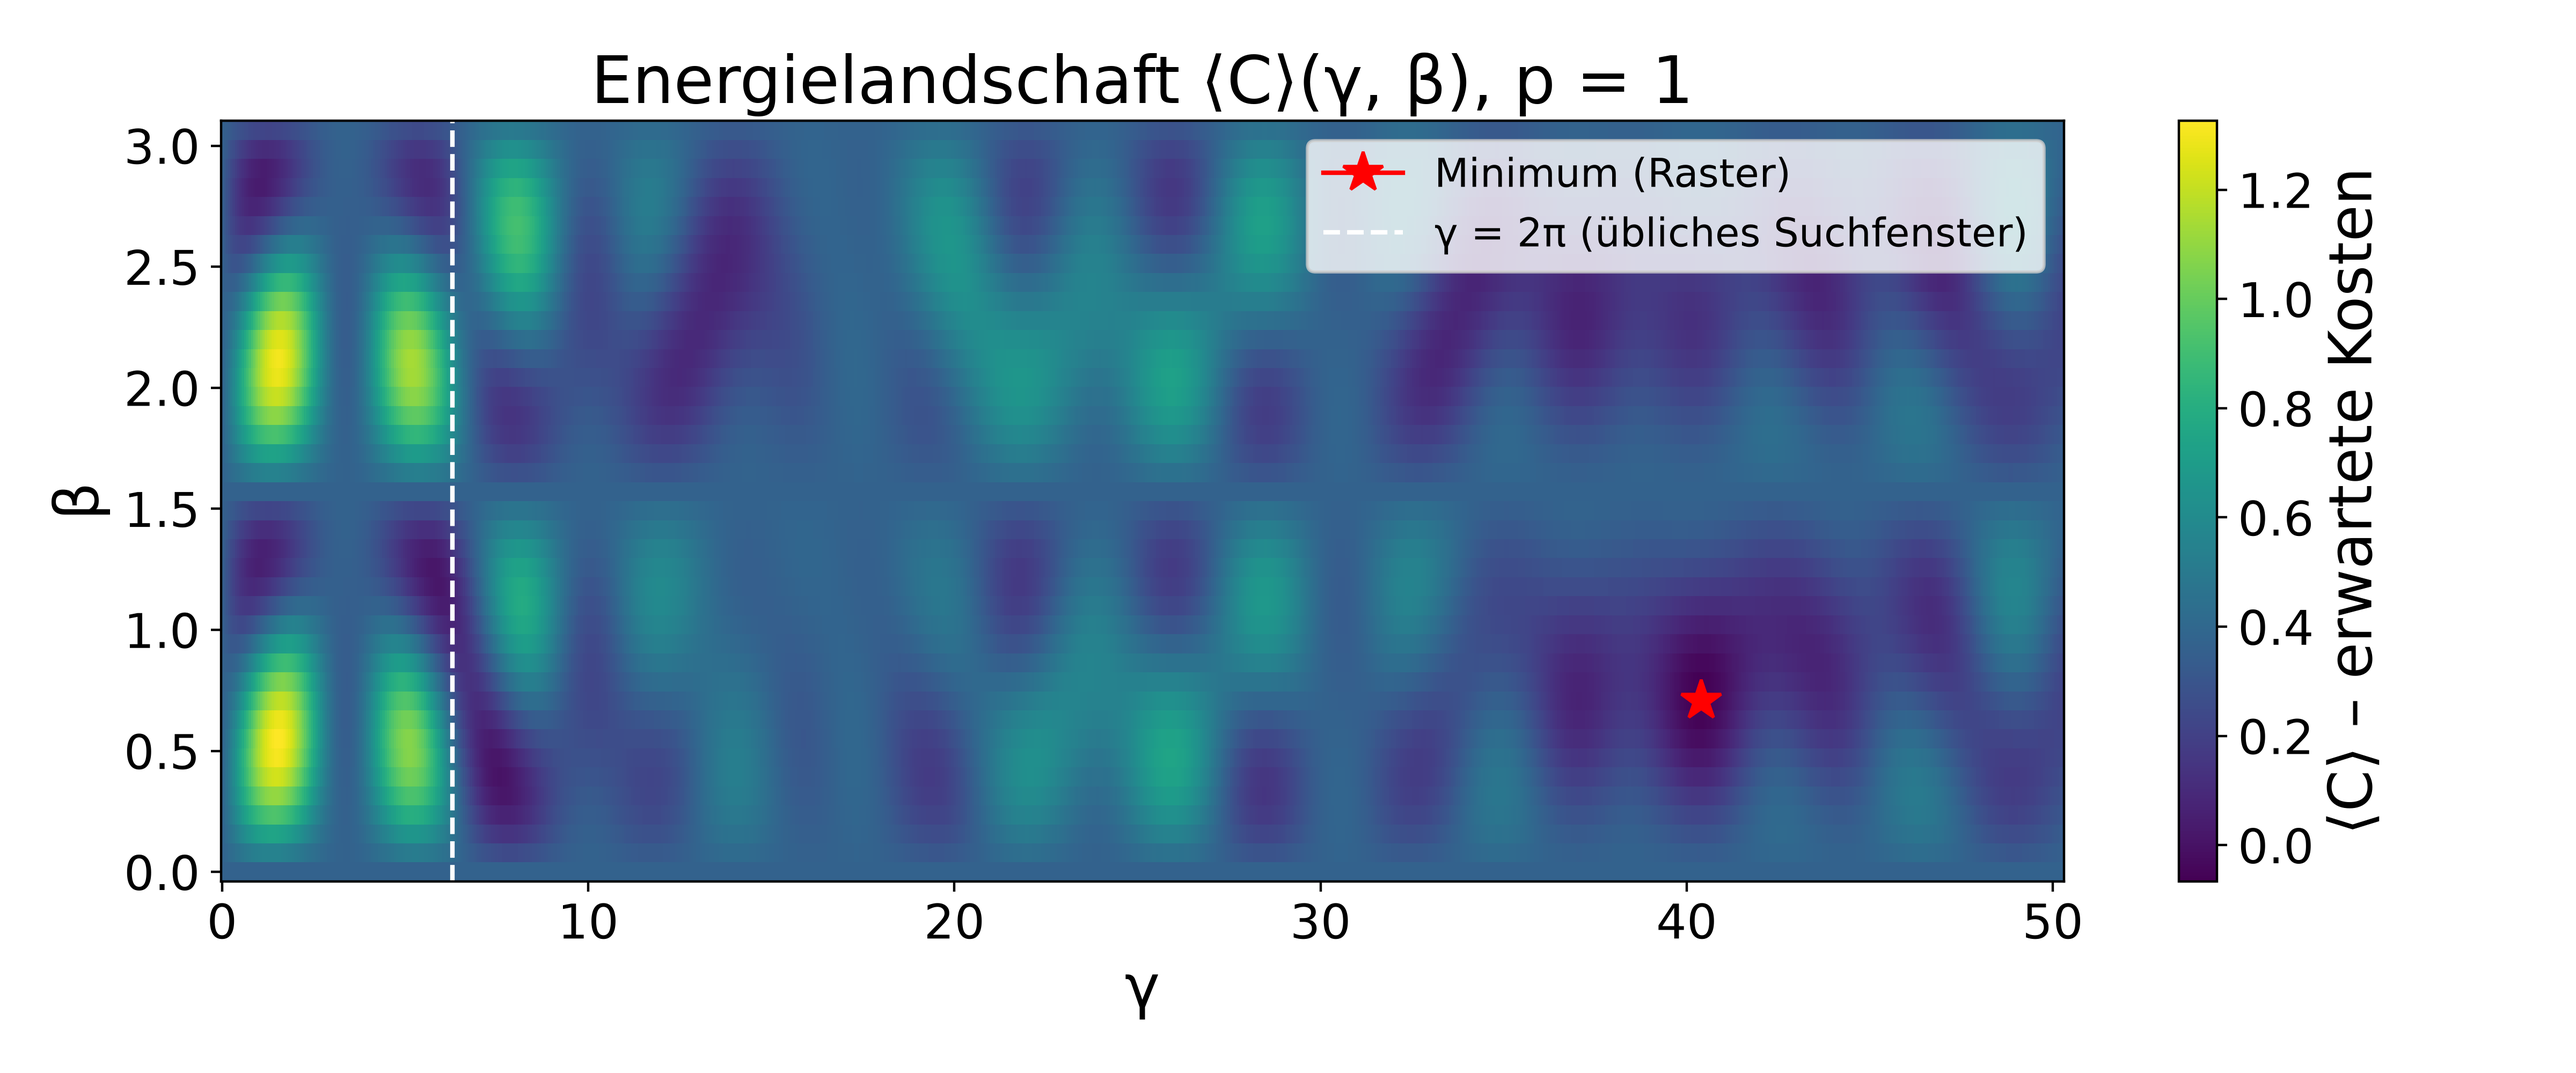
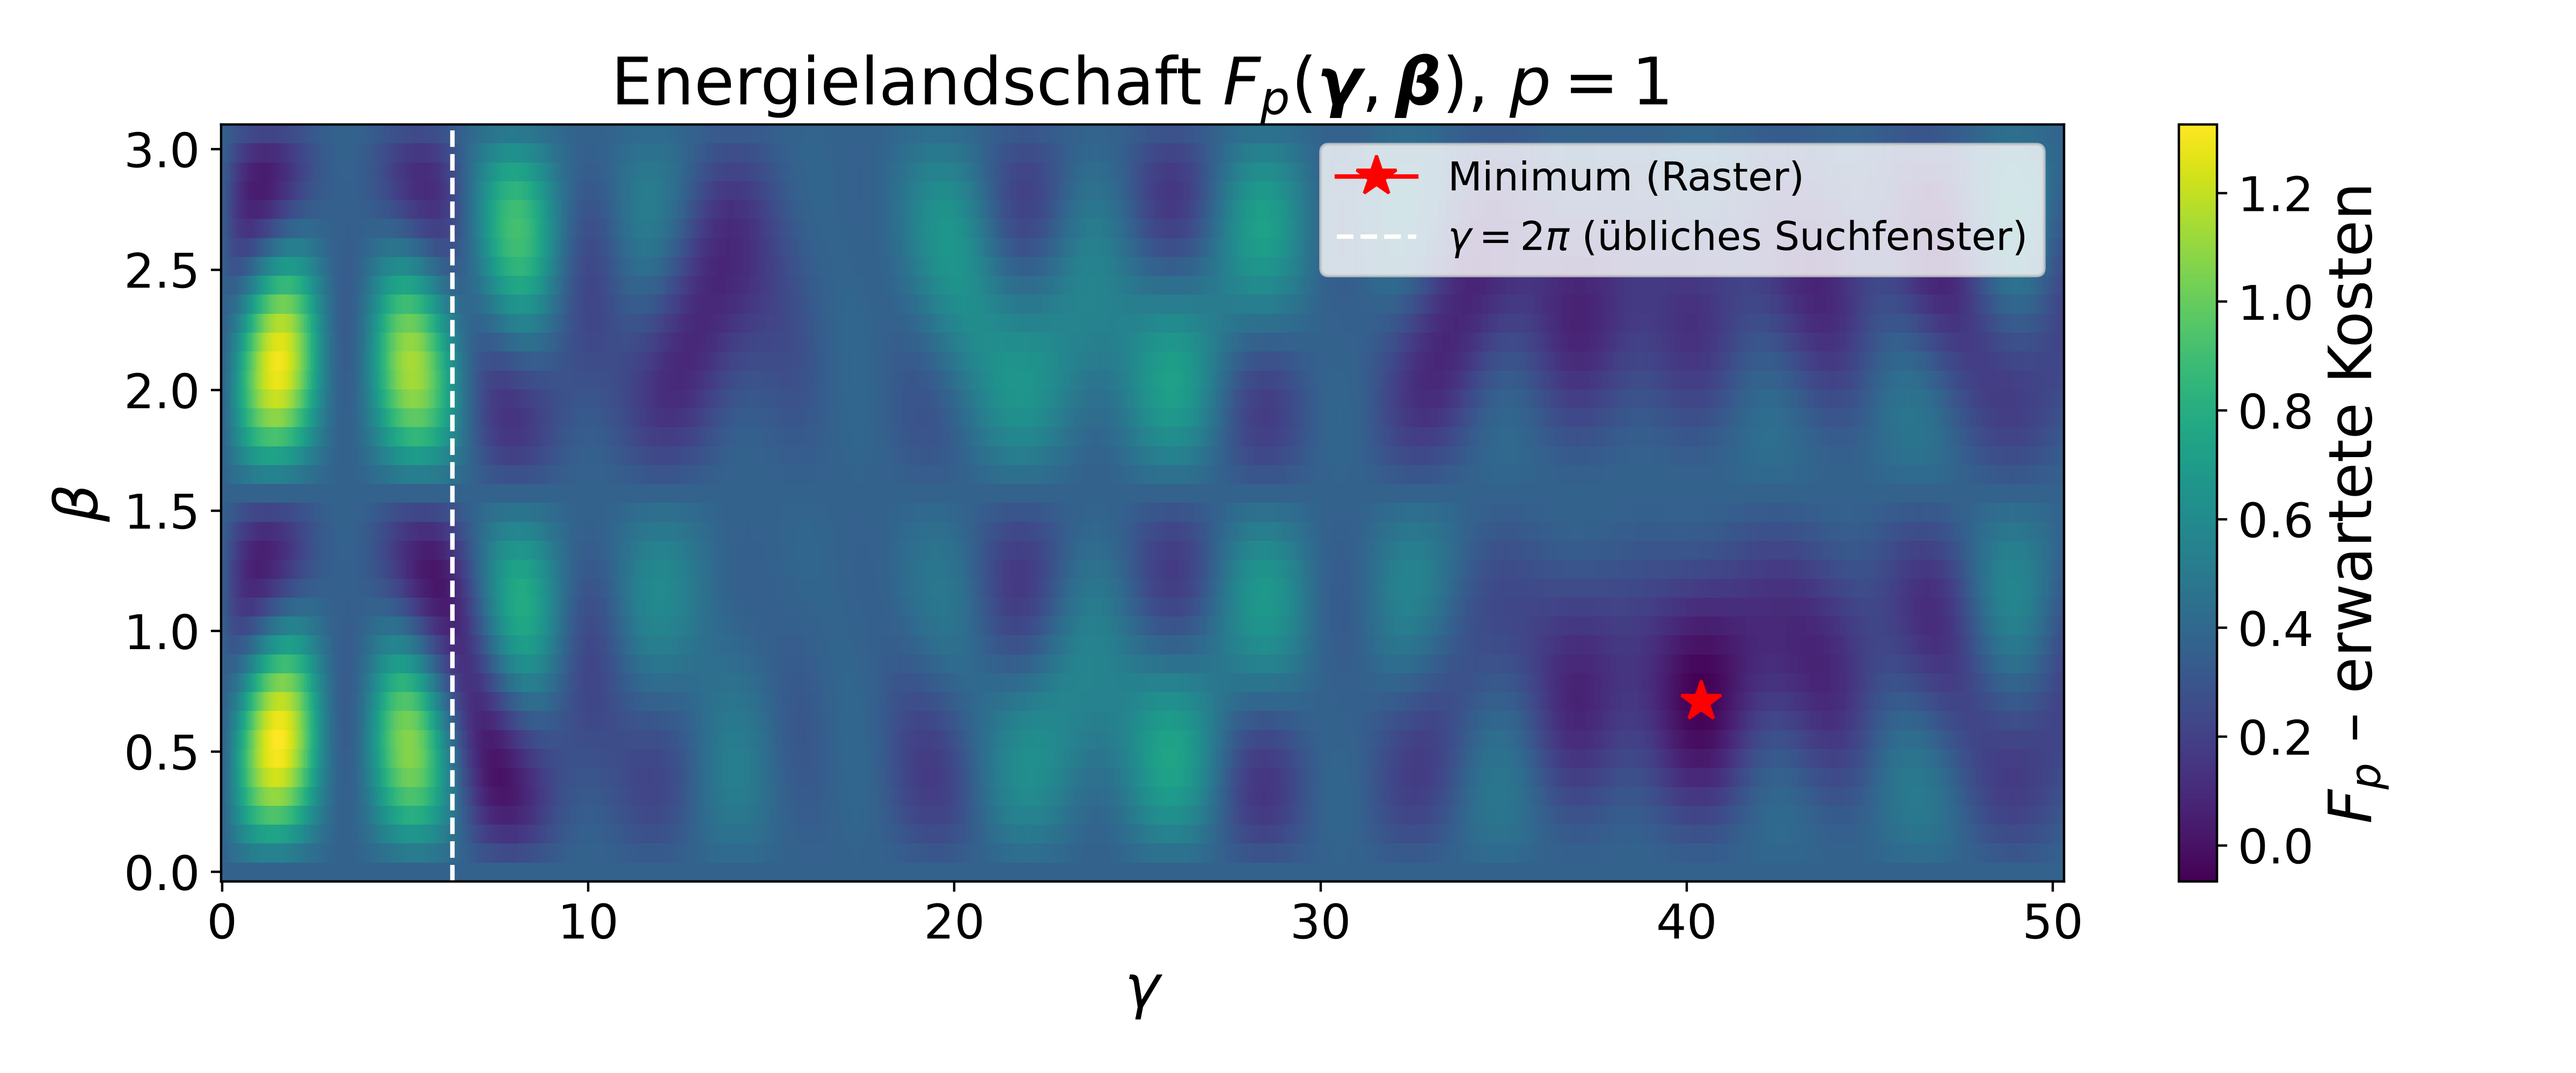
feat: increase maxiter for optimization and add new result files for enhanced portfolio analysis

diff --git a/src/02_portfolio_optimization.py b/src/02_portfolio_optimization.py
@@ -13,7 +13,7 @@ import qiskit
 import qiskit_optimization
 import scipy
 from matplotlib import pyplot as plt
-from matplotlib.patches import Rectangle
+from matplotlib.patches import Rectangle, Patch
 from qiskit import QuantumCircuit, QuantumRegister
 from qiskit.circuit import Instruction, Parameter
 from qiskit.circuit.library import qaoa_ansatz
@@ -63,7 +63,7 @@ class Config:
 
     # COBYLA; rhobeg ≈ grid spacing (γ: 16π/799 ≈ 0.063, β: π/40 ≈ 0.079)
     rhobeg: float = 0.1
-    maxiter: int = 1000
+    maxiter: int = 2000
 
     # Simulation
     shots: int = 10_000
@@ -336,8 +336,8 @@ def plot_convergence(history: list[float], reps: int, path: Path) -> None:
     fig, ax = plt.subplots(figsize=(SLIDE_FIG_WIDTH, 5))
     ax.plot(history, marker=".")
     ax.set_xlabel("Iteration (COBYLA)")
-    ax.set_ylabel("⟨C⟩ – erwartete Kosten")
-    ax.set_title(f"Konvergenz der Parameteroptimierung (p = {reps})")
+    ax.set_ylabel(r"$F_p$ – erwartete Kosten")
+    ax.set_title(rf"Konvergenz der Parameteroptimierung $(p = {reps})$")
     fig.tight_layout()
     fig.savefig(path, dpi=400)
     plt.close(fig)
@@ -347,14 +347,14 @@ def plot_landscape(betas, gammas, raster, start, path: Path) -> None:
     """Energy landscape of the p = 1 grid search (backup slide)."""
     fig, ax = plt.subplots(figsize=(SLIDE_FIG_WIDTH, 5))
     mesh = ax.pcolormesh(gammas, betas, raster, shading="nearest", cmap="viridis")
-    fig.colorbar(mesh, ax=ax, label="⟨C⟩ – erwartete Kosten")
+    fig.colorbar(mesh, ax=ax, label=r"$F_p$ – erwartete Kosten")
     ax.plot(start[1], start[0], marker="*", color="red", markersize=14,
             label="Minimum (Raster)")
     ax.axvline(2 * np.pi, color="white", linestyle="--",
-               label="γ = 2π (übliches Suchfenster)")
-    ax.set_xlabel("γ")
-    ax.set_ylabel("β")
-    ax.set_title("Energielandschaft ⟨C⟩(γ, β), p = 1")
+               label=r"$\gamma = 2\pi$ (übliches Suchfenster)")
+    ax.set_xlabel(r"$\gamma$")
+    ax.set_ylabel(r"$\beta$")
+    ax.set_title(r"Energielandschaft $F_p(\boldsymbol{\gamma}, \boldsymbol{\beta})$, $p = 1$")
     ax.legend(loc="upper right", fontsize="small")
     fig.tight_layout()
     fig.savefig(path, dpi=400)
@@ -366,6 +366,9 @@ def plot_distribution(pf: Portfolio, prob: dict, cfg: Config, path: Path) -> Non
     x_opt = pf.feasible[0]
     infeasible = sorted(set(pf.all_x) - set(pf.feasible), key=pf.cost)
     x_sorted = pf.feasible + infeasible
+    categories = {"tab:green": "Optimum",
+                  "tab:blue": "zulässig",
+                  "tab:red": "unzulässig"}
     colors = ["tab:green" if x == x_opt
               else "tab:blue" if sum(x) == pf.budget
     else "tab:red" for x in x_sorted]
@@ -376,13 +379,17 @@ def plot_distribution(pf: Portfolio, prob: dict, cfg: Config, path: Path) -> Non
             color=colors)
     ax.invert_yaxis()  # best portfolio at the top
     ax.axvline(1 / 2 ** pf.n, color="gray", linestyle="--",
-               label=f"Raten (1/{2 ** pf.n})")
+               label=rf"Raten $(1/{2 ** pf.n})$")
     ax.set_xlabel("Messwahrscheinlichkeit")
     # Centred on the figure, not the axes (the long labels shift the axes
     # right). {{\min}}: literal braces; a bare {min} would insert Python's min()
     fig.suptitle(f"Messverteilung nach Optimierung "
-                 rf"(p = {cfg.reps}, $\alpha_{{\min}}$, {cfg.shots} Shots)")
-    ax.legend()
+                 rf"($p = {cfg.reps}$, $\alpha_{{\min}}$, {cfg.shots} Shots)")
+    # Bar colours are not labelled artists, so their legend entries are
+    # added as patches in front of the guessing line
+    handles = [Patch(color=c, label=label) for c, label in categories.items()]
+    ax.legend(handles=handles + ax.get_legend_handles_labels()[0],
+              loc="lower right")
     fig.tight_layout()
     fig.savefig(path, dpi=400)
     plt.close(fig)
@@ -485,7 +492,7 @@ def main(cfg: Config | None = None) -> dict:
     result = qaoa.optimize(initial_point(*start, cfg.reps), cfg)
     betas_opt, gammas_opt = result.x[:cfg.reps], result.x[cfg.reps:]
     print(f"Optimiert: γ* = {np.round(gammas_opt, 4)}, β* = {np.round(betas_opt, 4)}, "
-          f"<C> = {result.fun:.4f} nach {len(qaoa.history)} Auswertungen")
+          f"F_C = {result.fun:.4f} nach {len(qaoa.history)} Auswertungen")
 
     # 3. Measuring with the optimal parameters
     prob = sample(qaoa, result.x, pf, sampler, cfg.shots)
